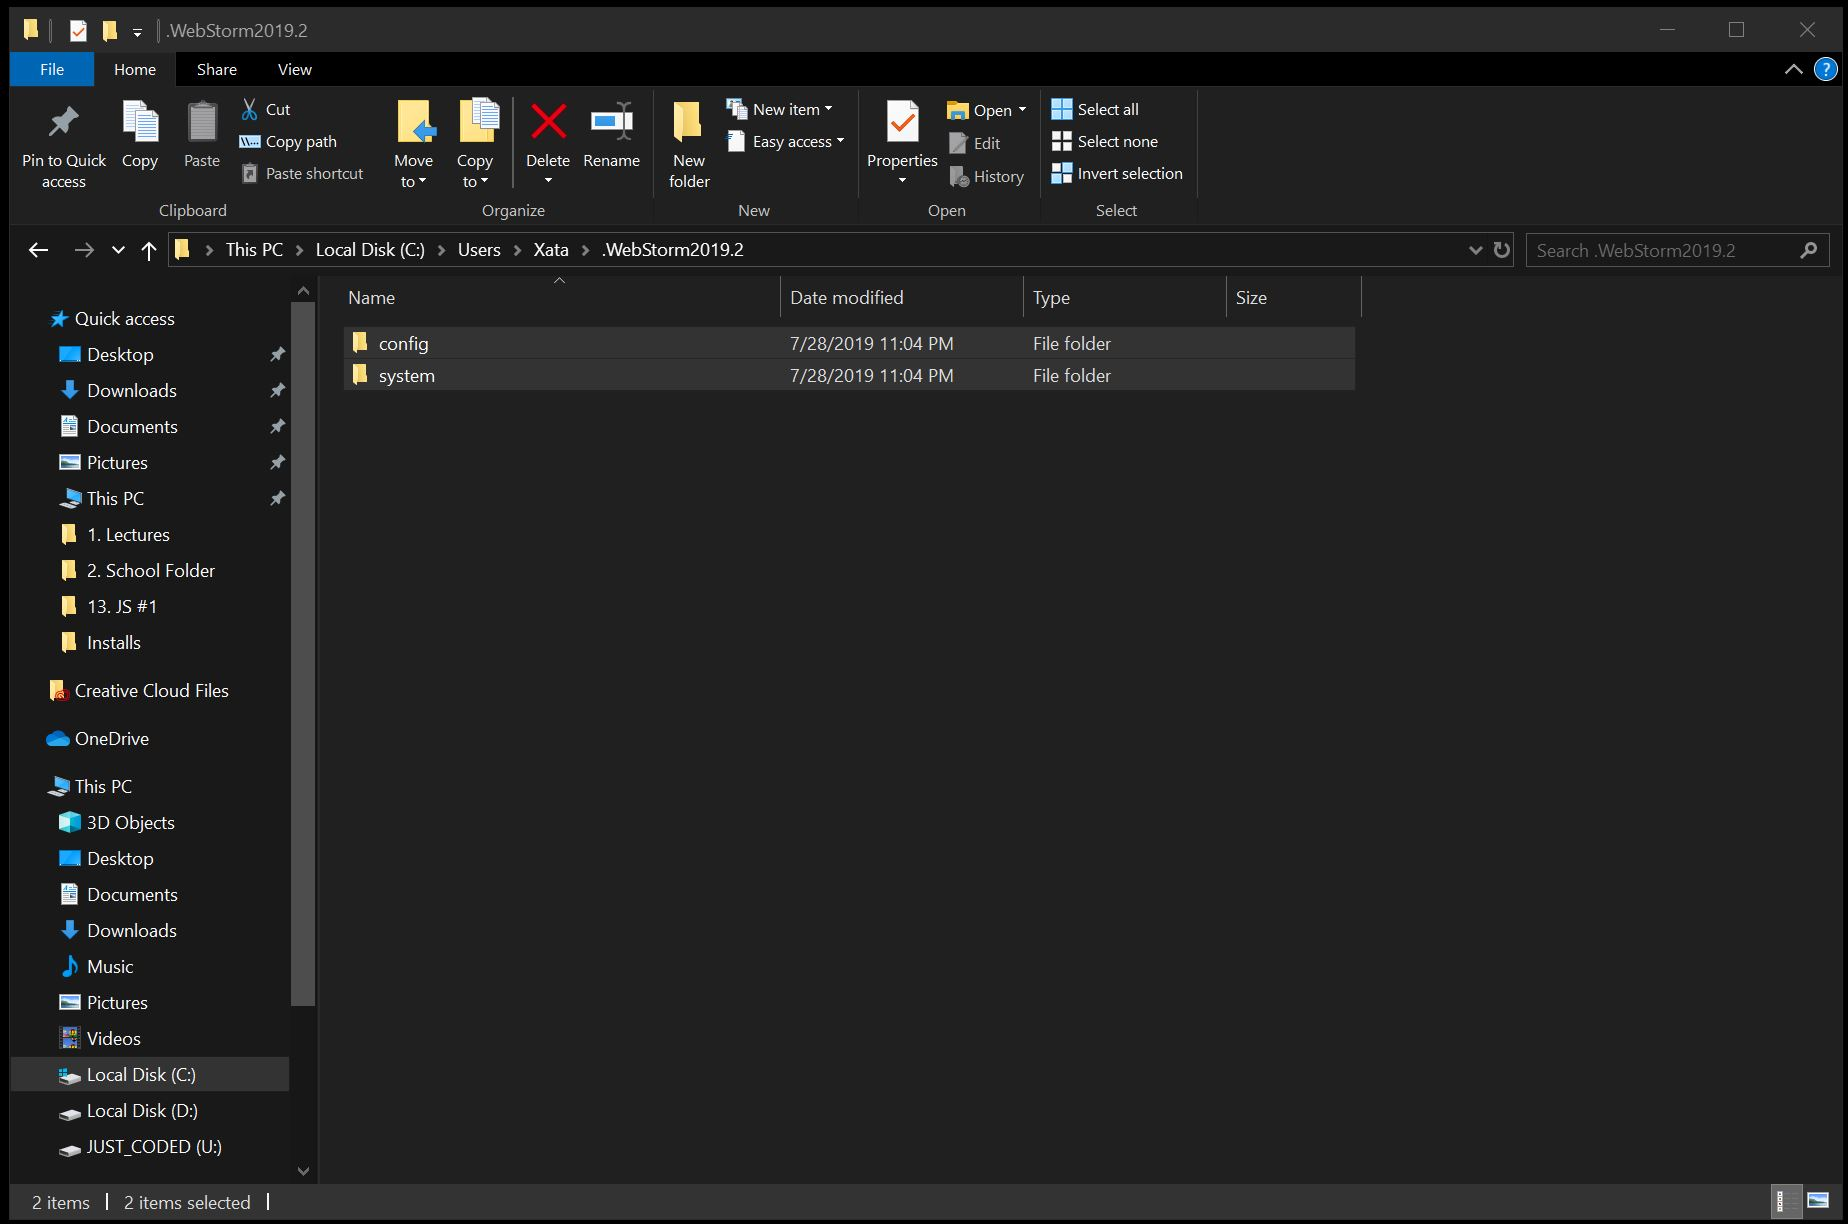
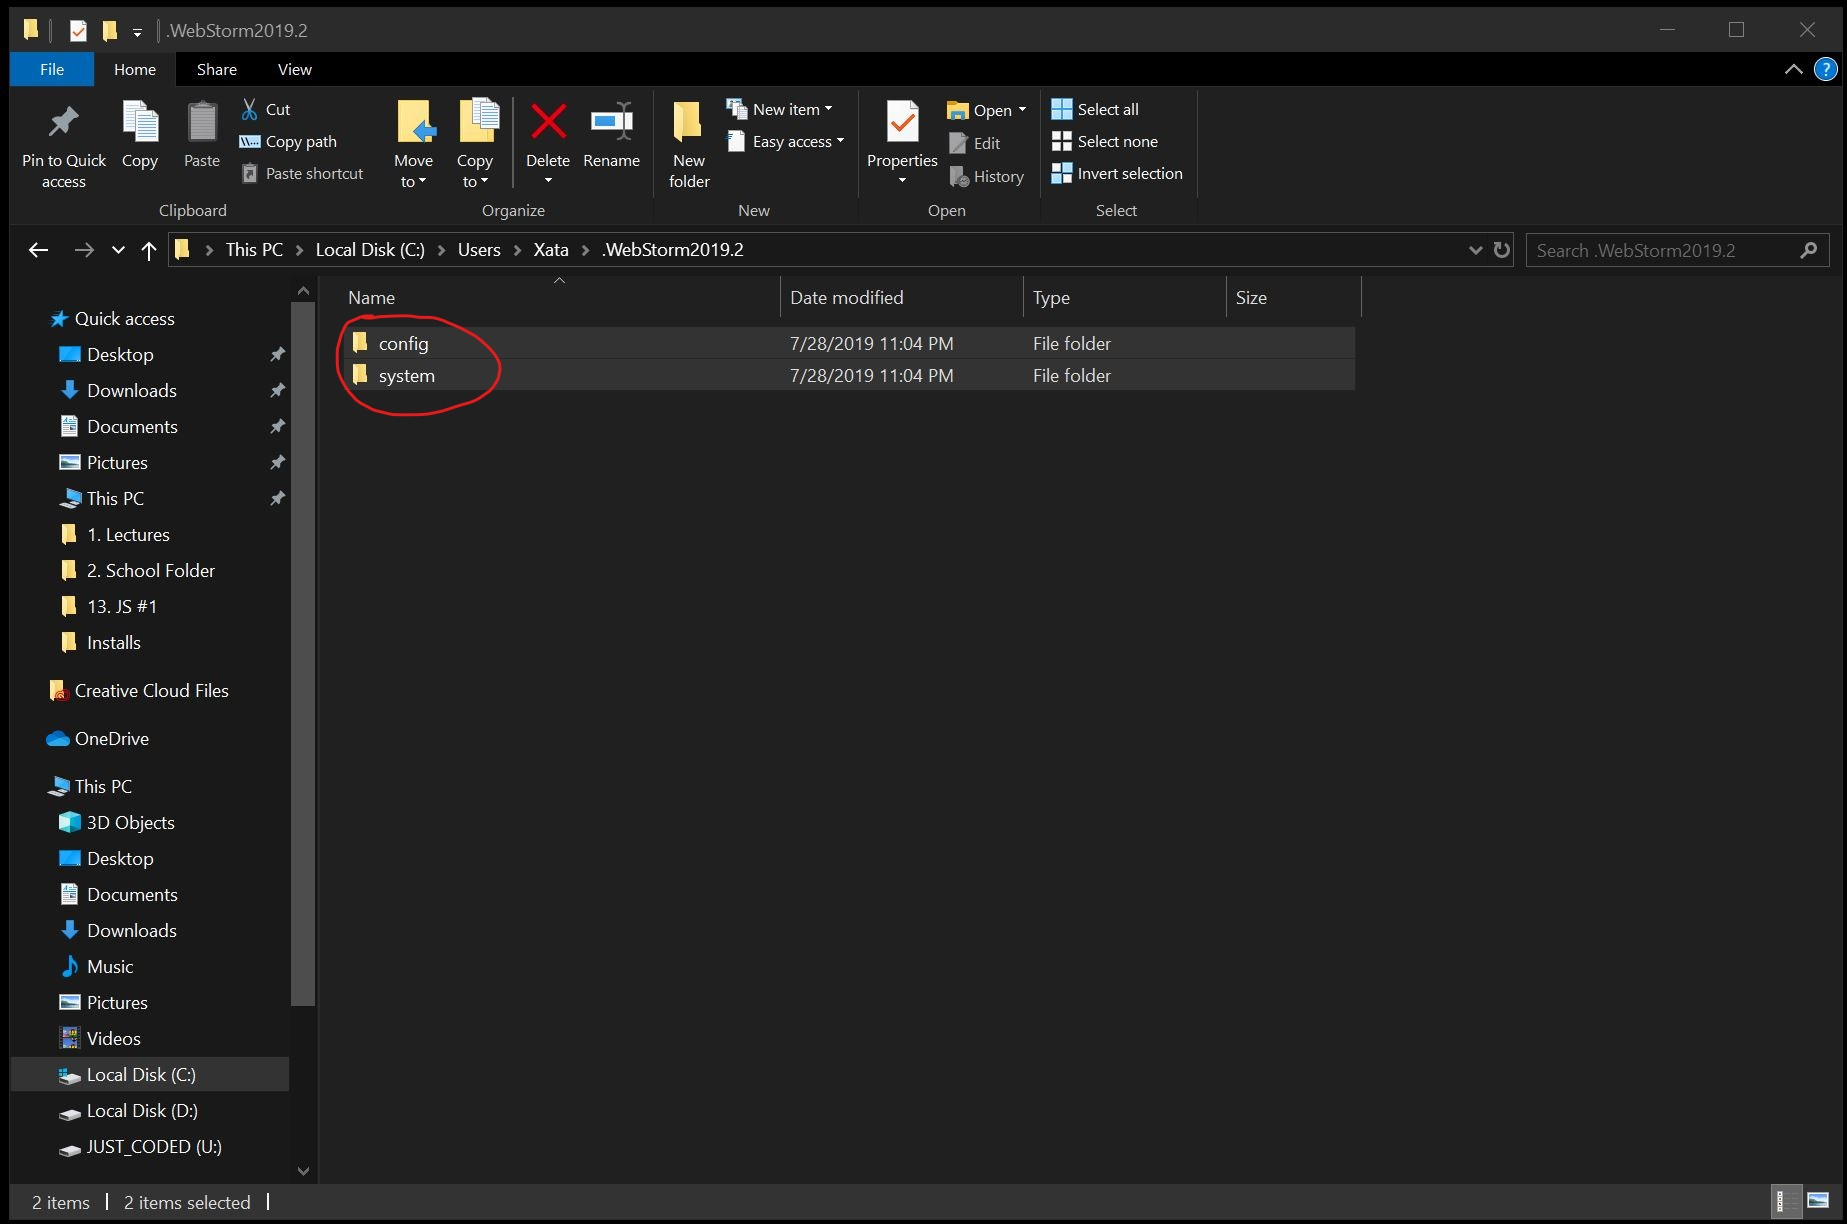
added screenshots

diff --git a/readme.md b/readme.md
@@ -1,4 +1,4 @@
-# 1. Скачать последнюю версию WebStorm
+# 1. Скачайте последнюю версию WebStorm
 
 https://www.jetbrains.com/webstorm/download
 
@@ -11,9 +11,13 @@ https://www.7-zip.org/
 
 * Удалите папку **./$PLUGINDIR**
 
-> она бесполезна
+> эта папка бесполезна
 
-*  Откройте файл конфигурации **./bin/idea.properties** с помощью Notepad и измените пути хранения настроек cо стандартных:
+![Screenshot](https://github.com/MaksimBorovik/Guide-How-to-create-WebStorm-Portable/blob/master/img/0.JPG)
+
+*  Откройте файл конфигурации **idea.properties** с помощью Notepad и измените пути хранения настроек cо стандартных:
+
+![Screenshot](https://github.com/MaksimBorovik/Guide-How-to-create-WebStorm-Portable/blob/master/img/01.JPG)
 
 ```
 # idea.config.path=${user.home}/.WebStorm/config
@@ -21,7 +25,7 @@ https://www.7-zip.org/
 # idea.system.path=${user.home}/.WebStorm/system
 ```
 
-![Screenshot](img/1.jpg)
+![Screenshot](https://github.com/MaksimBorovik/Guide-How-to-create-WebStorm-Portable/blob/master/img/1.JPG)
 
 на слудующие:
 
@@ -32,7 +36,7 @@ idea.system.path=${idea.home}/system
 ```
 > не забудьте раскомментировать эти строки (убрать # в начале строки)
 
-![Screenshot](img/2.jpg)
+![Screenshot](https://github.com/MaksimBorovik/Guide-How-to-create-WebStorm-Portable/blob/master/img/2.JPG)
 
 # 4. Переносим настройки и плагины с ПК версии программы на портативную
 
@@ -44,14 +48,14 @@ C:\Users\<USER ACCOUNT NAME>\.<PRODUCT><VERSION>
 > <USER ACCOUNT NAME> - имя пользователя ПК
 > .<PRODUCT><VERSION> - папка WebStorm'а с пользовательскими настройками. С каждой новой версией её имя меняется. На момент написания данной инструкции папка именуется как .WebStorm2019.2
 
-![Screenshot](img/3.jpg)
+![Screenshot](https://github.com/MaksimBorovik/Guide-How-to-create-WebStorm-Portable/blob/master/img/3.JPG)
 
 * Копируем папки **config** и **system** в портативную версиею программы 
 ```
 U:\WebStorm-2019.2
 ```
 
-![Screenshot](img/4.jpg)
+![Screenshot](https://github.com/MaksimBorovik/Guide-How-to-create-WebStorm-Portable/blob/master/img/4.JPG)
 
 > Теперь все готово для копирования папки с программой на флешку
 
@@ -59,9 +63,9 @@ U:\WebStorm-2019.2
 
 * Чтобы запустить WebStorm нужно запустить файл **webstorm64.exe**, либо **webstorm.exe** (если у вас установлена 32-битая ОС), которые находятся в папке **bin**:
 
-![Screenshot](img/5.jpg)
+![Screenshot](https://github.com/MaksimBorovik/Guide-How-to-create-WebStorm-Portable/blob/master/img/5.JPG)
 
-# 6. Создаем ярлык для запуска WebStorm в корне флешки для простоты запуска портативной программы
+# 6. Создаем ярлык для запуска WebStorm в корне флешки для простоты запуска портативной версии
 
 > С помощью данного ярлыка вы сможете запускать WebStorm не смотря на то, какое имя диска будет дано вашему флешнакопителю при подключении к ПК
 
@@ -69,7 +73,7 @@ U:\WebStorm-2019.2
 
 > Нажимаем правой кнопкой миши по пустой области в проводнике выбираем пункт 'Cоздать' и 'Ярлык'
 
-![Screenshot](img/6.jpg)
+![Screenshot](https://github.com/MaksimBorovik/Guide-How-to-create-WebStorm-Portable/blob/master/img/6.JPG)
 
 * В открывшемся диалоговом окне, в строке 'Укажите расположение объекта' вводим:
 
@@ -83,22 +87,22 @@ U:\WebStorm-2019.2
 
 * Нажимаем 'Далее' и даем имя ярлыку (любое, на ваше усмотрение):
 
-![Screenshot](img/7.jpg)
+![Screenshot](https://github.com/MaksimBorovik/Guide-How-to-create-WebStorm-Portable/blob/master/img/7.JPG)
 
 * Нажимаем 'Готово' и у нас теперь появился ярлык для запуска WebStorm. Но это еще не все. Теперь заходим с 'Свойства' нашего ярлыка и содержимое поля 'Рабочая папка':
 
-![Screenshot](img/8.jpg)
+![Screenshot](https://github.com/MaksimBorovik/Guide-How-to-create-WebStorm-Portable/blob/master/img/8.JPG)
 
 * Для того, чтобы при запуске не отображалось окно командной строки, в поле 'Окно' выбираем 'Свернутое в значок':
 
-![Screenshot](img/9.jpg)
+![Screenshot](https://github.com/MaksimBorovik/Guide-How-to-create-WebStorm-Portable/blob/master/img/9.JPG)
 
 * Также здесь можем присвоить пиктограмму WebStorm'а нашему ярлыку:
 
-![Screenshot](img/10.jpg)
+![Screenshot](https://github.com/MaksimBorovik/Guide-How-to-create-WebStorm-Portable/blob/master/img/10.JPG)
 
 # 7. Портативная версия WebStorm готова!
 
-![Screenshot](img/11.jpg) 
+![Screenshot](https://github.com/MaksimBorovik/Guide-How-to-create-WebStorm-Portable/blob/master/img/11.JPG)
 
 > Скачав архим с данного репозитория вы можете найти в нем уже отредактированный файл 'idea.properties', готовый ярлык и папки 'config' и 'system' с моими конфигурациями и натройками WebStorm'а
